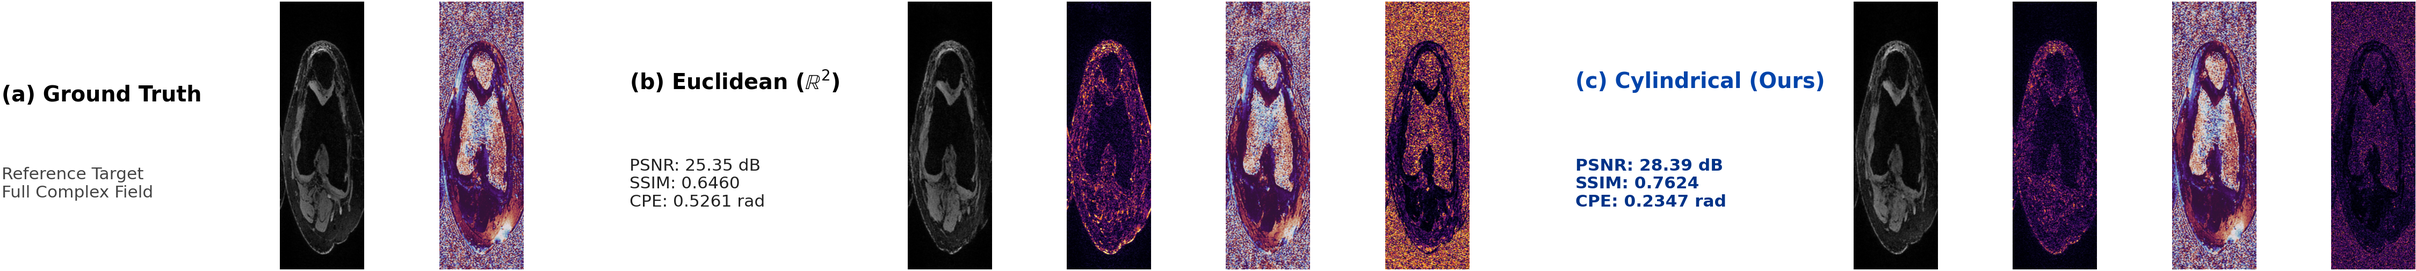
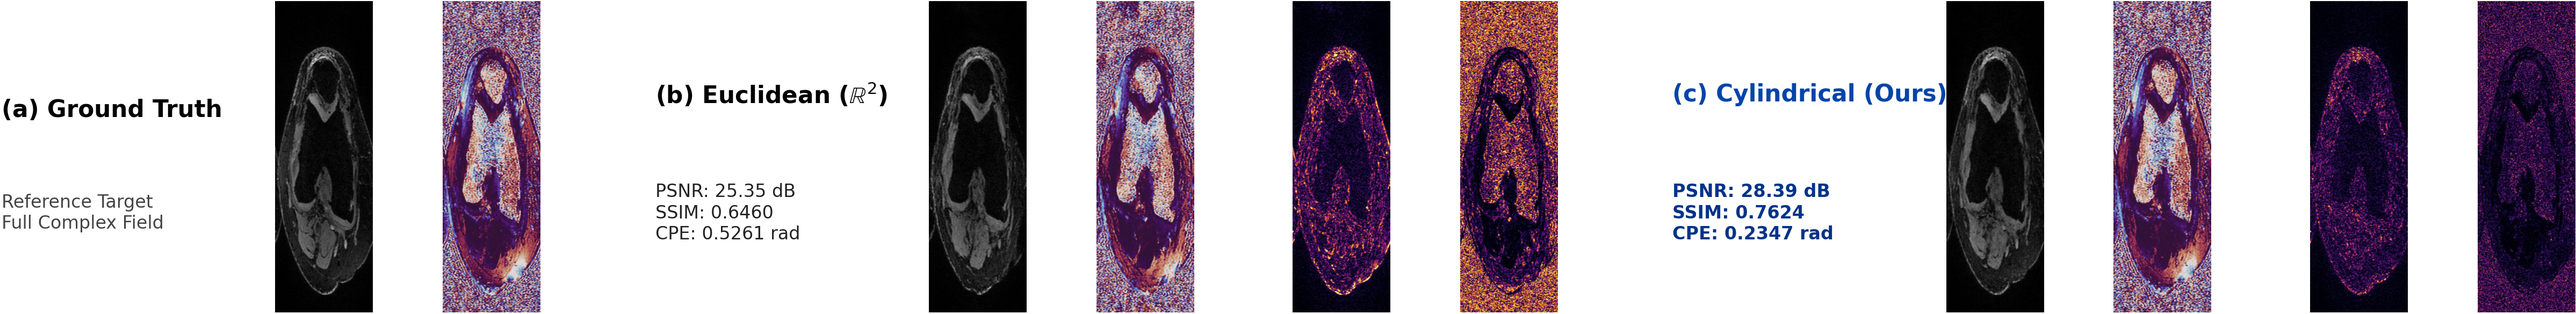
feat(figure2): reorder [Amp, Pha] [AmpErr, PhaErr] with custom micro-gaps and larger scale

diff --git a/scripts/generate_figure2_horizontal_strip.py b/scripts/generate_figure2_horizontal_strip.py
@@ -18,90 +18,105 @@ cyl_mag_err = plt.imread(f"{out_dir}/cyl_mag_err.png")
 cyl_pha = plt.imread(f"{out_dir}/cyl_pha.png")
 cyl_pha_err = plt.imread(f"{out_dir}/cyl_pha_err.png")
 
-# Set up figure with exact 1-row layout:
-# Columns:
-# [0] Text A, [1] GT Mag, [2] GT Pha, [3] Gap,
-# [4] Text B, [5] Euc Mag, [6] Euc Mag Err, [7] Euc Pha, [8] Euc Pha Err, [9] Gap,
-# [10] Text C, [11] Cyl Mag, [12] Cyl Mag Err, [13] Cyl Pha, [14] Cyl Pha Err
+# Width ratios with explicit micro-gaps:
+# (a) Text, Mag, Pha
+# Gap AB
+# (b) Text, Mag, Pha, GapReconErr, MagErr, PhaErr
+# Gap BC
+# (c) Text, Mag, Pha, GapReconErr, MagErr, PhaErr
 
 width_ratios = [
-    1.4, 0.9, 0.9,       # (a) Ground Truth
-    0.35,                # Gap
-    1.4, 0.9, 0.9, 0.9, 0.9, # (b) Euclidean
-    0.35,                # Gap
-    1.4, 0.9, 0.9, 0.9, 0.9  # (c) Cylindrical
+    # (a) Ground Truth (3 cols)
+    1.45, 1.0, 1.0,
+    # Gap (a) -> (b)
+    0.45,
+    # (b) Euclidean (6 cols: Text, Mag, Pha, mid-gap, MagErr, PhaErr)
+    1.45, 1.0, 1.0, 0.15, 1.0, 1.0,
+    # Gap (b) -> (c)
+    0.45,
+    # (c) Cylindrical (6 cols: Text, Mag, Pha, mid-gap, MagErr, PhaErr)
+    1.45, 1.0, 1.0, 0.15, 1.0, 1.0,
 ]
 
-fig = plt.figure(figsize=(15.5, 1.85), dpi=300)
-gs = GridSpec(1, len(width_ratios), figure=fig, width_ratios=width_ratios, wspace=0.04, left=0.01, right=0.99, top=0.95, bottom=0.05)
+# Slightly taller and larger for maximum sharpness:
+fig = plt.figure(figsize=(16.5, 2.1), dpi=300)
+gs = GridSpec(1, len(width_ratios), figure=fig, width_ratios=width_ratios, wspace=0.03, left=0.01, right=0.99, top=0.96, bottom=0.04)
 
-# --- (a) Ground Truth ---
+# ==================== (a) Ground Truth ====================
 ax_t0 = fig.add_subplot(gs[0, 0])
-ax_t0.text(0.0, 0.65, "(a) Ground Truth", fontsize=9.5, fontweight="bold", va="center")
-ax_t0.text(0.0, 0.32, "Reference Target\nFull Complex Field", fontsize=7.5, color="#444444", va="center", linespacing=1.2)
+ax_t0.text(0.0, 0.65, "(a) Ground Truth", fontsize=10.5, fontweight="bold", va="center")
+ax_t0.text(0.0, 0.32, "Reference Target\nFull Complex Field", fontsize=8.0, color="#444444", va="center", linespacing=1.25)
 ax_t0.axis("off")
 
-ax_a1 = fig.add_subplot(gs[0, 1])
-ax_a1.imshow(gt_mag)
-ax_a1.axis("off")
+ax_a_mag = fig.add_subplot(gs[0, 1])
+ax_a_mag.imshow(gt_mag)
+ax_a_mag.axis("off")
 
-ax_a2 = fig.add_subplot(gs[0, 2])
-ax_a2.imshow(gt_pha)
-ax_a2.axis("off")
+ax_a_pha = fig.add_subplot(gs[0, 2])
+ax_a_pha.imshow(gt_pha)
+ax_a_pha.axis("off")
 
 # Gap
-ax_gap1 = fig.add_subplot(gs[0, 3])
-ax_gap1.axis("off")
+fig.add_subplot(gs[0, 3]).axis("off")
 
-# --- (b) Euclidean Baseline ---
+# ==================== (b) Euclidean Baseline ====================
 ax_t1 = fig.add_subplot(gs[0, 4])
-ax_t1.text(0.0, 0.70, "(b) Euclidean ($\\mathbb{R}^2$)", fontsize=9.5, fontweight="bold", va="center")
-ax_t1.text(0.0, 0.32, "PSNR: 25.35 dB\nSSIM: 0.6460\nCPE: 0.5261 rad", fontsize=7.5, color="#222222", va="center", linespacing=1.2)
+ax_t1.text(0.0, 0.70, "(b) Euclidean ($\\mathbb{R}^2$)", fontsize=10.5, fontweight="bold", va="center")
+ax_t1.text(0.0, 0.32, "PSNR: 25.35 dB\nSSIM: 0.6460\nCPE: 0.5261 rad", fontsize=8.0, color="#222222", va="center", linespacing=1.25)
 ax_t1.axis("off")
 
-ax_b1 = fig.add_subplot(gs[0, 5])
-ax_b1.imshow(euc_mag)
-ax_b1.axis("off")
+# Reconstructions: Amp & Phase
+ax_b_mag = fig.add_subplot(gs[0, 5])
+ax_b_mag.imshow(euc_mag)
+ax_b_mag.axis("off")
 
-ax_b2 = fig.add_subplot(gs[0, 6])
-ax_b2.imshow(euc_mag_err)
-ax_b2.axis("off")
+ax_b_pha = fig.add_subplot(gs[0, 6])
+ax_b_pha.imshow(euc_pha)
+ax_b_pha.axis("off")
 
-ax_b3 = fig.add_subplot(gs[0, 7])
-ax_b3.imshow(euc_pha)
-ax_b3.axis("off")
+# 15px-equivalent mid-gap between recon pair and error pair
+fig.add_subplot(gs[0, 7]).axis("off")
 
-ax_b4 = fig.add_subplot(gs[0, 8])
-ax_b4.imshow(euc_pha_err)
-ax_b4.axis("off")
+# Error Maps: |dMag| & |dPhase|
+ax_b_mag_err = fig.add_subplot(gs[0, 8])
+ax_b_mag_err.imshow(euc_mag_err)
+ax_b_mag_err.axis("off")
+
+ax_b_pha_err = fig.add_subplot(gs[0, 9])
+ax_b_pha_err.imshow(euc_pha_err)
+ax_b_pha_err.axis("off")
 
 # Gap
-ax_gap2 = fig.add_subplot(gs[0, 9])
-ax_gap2.axis("off")
+fig.add_subplot(gs[0, 10]).axis("off")
 
-# --- (c) Cylindrical Flow (Ours) ---
-ax_t2 = fig.add_subplot(gs[0, 10])
-ax_t2.text(0.0, 0.70, "(c) Cylindrical (Ours)", fontsize=9.5, fontweight="bold", color="#0044aa", va="center")
-ax_t2.text(0.0, 0.32, "PSNR: 28.39 dB\nSSIM: 0.7624\nCPE: 0.2347 rad", fontsize=7.5, fontweight="bold", color="#003388", va="center", linespacing=1.2)
+# ==================== (c) Cylindrical Flow (Ours) ====================
+ax_t2 = fig.add_subplot(gs[0, 11])
+ax_t2.text(0.0, 0.70, "(c) Cylindrical (Ours)", fontsize=10.5, fontweight="bold", color="#0044aa", va="center")
+ax_t2.text(0.0, 0.32, "PSNR: 28.39 dB\nSSIM: 0.7624\nCPE: 0.2347 rad", fontsize=8.0, fontweight="bold", color="#003388", va="center", linespacing=1.25)
 ax_t2.axis("off")
 
-ax_c1 = fig.add_subplot(gs[0, 11])
-ax_c1.imshow(cyl_mag)
-ax_c1.axis("off")
+# Reconstructions: Amp & Phase
+ax_c_mag = fig.add_subplot(gs[0, 12])
+ax_c_mag.imshow(cyl_mag)
+ax_c_mag.axis("off")
 
-ax_c2 = fig.add_subplot(gs[0, 12])
-ax_c2.imshow(cyl_mag_err)
-ax_c2.axis("off")
+ax_c_pha = fig.add_subplot(gs[0, 13])
+ax_c_pha.imshow(cyl_pha)
+ax_c_pha.axis("off")
 
-ax_c3 = fig.add_subplot(gs[0, 13])
-ax_c3.imshow(cyl_pha)
-ax_c3.axis("off")
+# 15px-equivalent mid-gap
+fig.add_subplot(gs[0, 14]).axis("off")
 
-ax_c4 = fig.add_subplot(gs[0, 14])
-ax_c4.imshow(cyl_pha_err)
-ax_c4.axis("off")
+# Error Maps: |dMag| & |dPhase|
+ax_c_mag_err = fig.add_subplot(gs[0, 15])
+ax_c_mag_err.imshow(cyl_mag_err)
+ax_c_mag_err.axis("off")
+
+ax_c_pha_err = fig.add_subplot(gs[0, 16])
+ax_c_pha_err.imshow(cyl_pha_err)
+ax_c_pha_err.axis("off")
 
 out_file = "paper/NIPS workshop/figures/figure2_results.png"
 plt.savefig(out_file, bbox_inches="tight", pad_inches=0.01)
 plt.close()
-print("Saved panoramic horizontal Figure 2 to", out_file)
+print("Saved newly ordered and scaled Figure 2 to", out_file)
